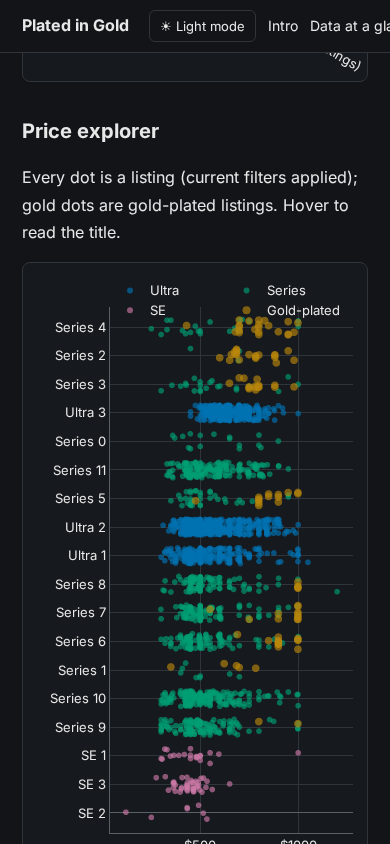
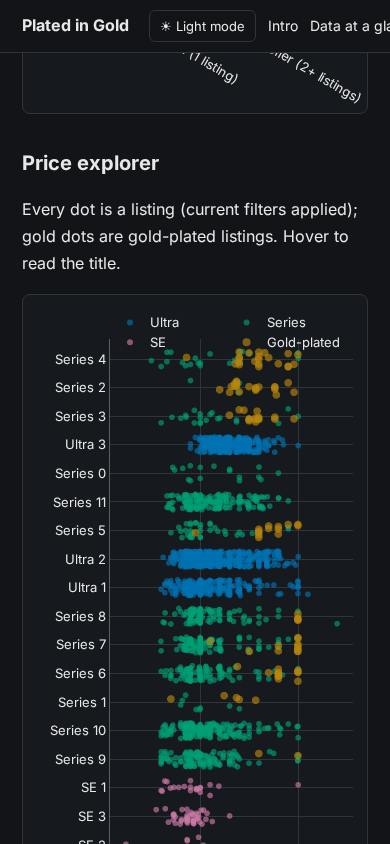
Move UK effect (price gap + country×model heatmap) into Data at a glance; fix heatmap colour text, UK deviation $126, nav scroll offset

diff --git a/app/app.js b/app/app.js
@@ -45,8 +45,9 @@ H('tSyn', `Features interact: in a hypothetical gold-plated Series 2, <em>gold =
 H('tPros', `<li><b>Reflects listing volume</b> — common models shape the model more; ${pc(C.ultra_share)} of listings are Ultra, while Series 2 has ${C.model_n['Series 2']} listings.</li><li><b>Splits credit among correlated features</b> — e.g. gold and older Series models.</li><li><b>Handles high-cardinality features</b> — ${C.n_sellers.toLocaleString()} seller IDs; seller ID ranks ${imp.findIndex(d => d.feature === 'seller_id') + 1} of ${imp.length}.</li>`);
 H('tFit', `${D.metrics.n_train.toLocaleString()} train / ${D.metrics.n_test} test listings (80/20 split, seed 43, after dropping rows with missing values). CatBoost regressor with default hyperparameters on condition, case size, worldwide shipping, country, model, Hermès, cellular, gold, premium band, ceramic and seller ID; the ranking chart's variant also includes the power-seller feature (R² ${D.metrics_ps.r2.toFixed(2)}, MAE ${fmt(D.metrics_ps.mae)}).`);
 H('tDist', `Choose a feature to see the spread of its SHAP values across all ${S.entries.toLocaleString()} listings. For <b>country</b>, the cluster left of zero is the UK: UK listings average ${fmt(C.uk_country_shap_mean)}, other countries +${fmt(C.other_country_shap_mean)}.`);
-H('tHeat', `Each cell shows how far a country's average for a model sits from that model's average across countries (blue below, red above). <b>The UK sits below in ${C.uk_models_below} of the ${C.uk_models_total} models it lists</b>, by ${fmt(Math.abs(C.uk_dev_mean))} on average.`);
-H('ukNeg', `In the SHAP chart above (feature: country), UK listings sit left of zero: ${D.uk.neg_all} of ${D.uk.n} UK country SHAP values are negative (${D.uk.neg_test} of ${D.uk.n_test} in the test set) — the model lowers the prediction for being listed in the UK.`);
+H('tUK', `UK listings average ${fmt(D.uk.uk_mean)}, against ${fmt(D.uk.rest_mean)} elsewhere (Welch p = ${D.uk.p.toExponential(1)}). This isn't just the UK listing cheaper models.`);
+H('tHeat', `Each cell shows how far a country's average for a model sits from that model's average across countries (red below, blue above). <b>The UK sits below in ${C.uk_models_below} of the ${C.uk_models_total} models it lists</b>, by ${fmt(Math.abs(C.uk_dev_mean))} on average.`);
+H('ukNeg', `<b>The UK effect in the model.</b> In the SHAP chart above (feature: country), UK listings sit left of zero: ${D.uk.neg_all} of ${D.uk.n} UK country SHAP values are negative (${D.uk.neg_test} of ${D.uk.n_test} in the test set) — the model lowers the prediction for being listed in the UK.`);
 H('f1', `${label(C.model_rank_A[0])} has the largest mean |SHAP| (${fmt(imp[0].value)}). The Ultra 3 averages ${fmt(C.ultra3_mean)}, but ${list(C.old_above_ultra3)} average more, and they have the highest gold shares (${list(C.top3_gold.map(m => C.gold_share[m] + '%'))}).`);
 H('f2', `Within models that have gold versions, gold-plating goes with a ${D.gold.pct}% higher average list price, yet gold ranks only ${C.gold_rank} of ${C.n_features} by mean |SHAP| (${fmt(C.gold_mean_abs_shap)}) — a big effect in a small niche (${D.gold.n} listings).`);
 H('f3', `Country ranks #${imp.findIndex(d => d.feature === 'country') + 1}. UK listings average ${fmt(D.uk.uk_mean)} vs ${fmt(D.uk.rest_mean)} elsewhere (Welch p = ${D.uk.p.toExponential(1)}), and the UK is below the cross-country average in ${C.uk_models_below} of ${C.uk_models_total} models.`);

diff --git a/app/index.html b/app/index.html
@@ -7,7 +7,7 @@
 <link rel="stylesheet" href="style.css">
 </head><body>
 <nav id="toc"><span class="brand">Plated in Gold</span><button id="themeToggle" class="theme" type="button" aria-pressed="false">☾ Dark mode</button>
-<a href="#intro">Intro</a><a href="#glance">Data at a glance</a><a href="#pitfall">The gold pitfall</a><a href="#model">Modeling</a><a href="#shap">SHAP</a><a href="#findings">Key findings</a><a href="#limits">Limitations</a><a href="#future">Future work</a></nav>
+<a href="#intro">Intro</a><a href="#glance">Data at a glance</a><a href="#uk">UK effect</a><a href="#pitfall">The gold pitfall</a><a href="#model">Modeling</a><a href="#shap">SHAP</a><a href="#findings">Key findings</a><a href="#limits">Limitations</a><a href="#future">Future work</a></nav>
 <header class="hero" id="intro"><div class="wrap">
 <p class="eyebrow">A data story · Apple Watch resale listings</p>
 <h1>Plated in Gold</h1>
@@ -44,6 +44,10 @@
 <div class="grid2"><div id="countryDonut" class="chart donut"></div><div id="modelDonut" class="chart donut"></div></div>
 <p id="tUKavg"></p>
 <div id="countryMeans" class="chart"></div>
+<h4 id="uk">The UK effect</h4>
+<p id="tUK"></p>
+<p id="tHeat"></p>
+<div id="heatmap" class="chart tall"></div>
 <p id="listingTxt"></p>
 <div id="listingChart" class="chart"></div>
 <h4>Price explorer</h4><p>Every dot is a listing (current filters applied); gold dots are gold-plated listings. Hover to read the title.</p>
@@ -76,8 +80,6 @@
 <p id="tDist"></p>
 <label class="inline">Feature <select id="dFeat"></select></label>
 <div id="shapDist" class="chart"></div>
-<p id="tHeat"></p>
-<div id="heatmap" class="chart tall"></div>
 <p id="ukNeg"></p></section>
 <section class="wrap" id="findings"><h3>Key findings</h3><div class="findings">
 <div><span>1</span><h5>Model is the top feature — but simple comparisons mislead.</h5><p id="f1"></p></div>

diff --git a/app/style.css b/app/style.css
@@ -45,3 +45,7 @@ button:focus-visible,select:focus-visible,input:focus-visible{outline:3px solid 
 code{font-size:.9em;background:var(--soft);padding:1px 4px;border-radius:4px}
 footer{margin-top:60px;padding:24px 0;background:var(--soft);border-top:1px solid var(--line);color:var(--mut);font-size:14px}
 @media(max-width:760px){body{font-size:16px}.chart.explorer-chart{height:620px}nav#toc{gap:12px}.grid2,.explorer{grid-template-columns:1fr}.chart.tall{height:440px}.filters{position:static;margin-top:20px}.callout{flex-direction:column;align-items:flex-start}h3{font-size:24px}}
+
+/* keep nav targets clear of the sticky header and filter bar */
+html { scroll-padding-top: 140px; }
+@media (max-width: 700px) { html { scroll-padding-top: 64px; } }

diff --git a/scripts/make_notebook.py b/scripts/make_notebook.py
@@ -28,6 +28,9 @@ viz.fig_donut(df['country'].value_counts(), 'Listings by country', IMAGES_DIR/'0
 viz.fig_donut(df['family'].fillna('Unknown').value_counts(), 'Listings by family', IMAGES_DIR/'02_family_donut.png'); plt.show()""")
 code("""print(f"overall mean ${C['mean_all']} | excluding UK ${C['mean_ex_uk']} | UK lowest (30+ listings): {C['uk_lowest']}")
 viz.fig_country_means(df, IMAGES_DIR/'03_country_means.png'); plt.show()""")
+md("### The UK effect\nUK listings average less than listings elsewhere, and the gap holds within models: the heatmap shows each country's deviation from the model's cross-country average.")
+code("""print(st['uk']); print('UK models below cross-country mean:', C['uk_models_below'], 'of', C['uk_models_total'])
+viz.fig_deviation_heatmap(df, IMAGES_DIR/'12_price_deviation_heatmap.png'); plt.show()""")
 code("""print(st['listing'])
 viz.fig_listing_type(df, IMAGES_DIR/'04_listing_type.png'); plt.show()""")
 md("## 3. The gold-plating pitfall")
@@ -49,8 +52,7 @@ viz.fig_waterfall(st['sv'][ti], [f'{l} = {"missing" if pd.isna(X.iloc[ti][f]) el
 code("""w = st['s2_row'].iloc[0]
 print('Series 2 gold: gold', C['s2_gold_shap'], '| model', C['s2_model_shap'])
 viz.fig_waterfall(st['s2_shap'], [f'{l} = {"missing" if pd.isna(w[f]) else w[f]}' for l, f in zip(lab, FEATURES)], st['base'], 'SHAP breakdown: hypothetical gold-plated Series 2', IMAGES_DIR/'10_shap_series2_gold.png'); plt.show()""")
-code("""print(st['uk']); print('UK models below cross-country mean:', C['uk_models_below'], 'of', C['uk_models_total'])
-viz.fig_deviation_heatmap(df, IMAGES_DIR/'12_price_deviation_heatmap.png'); plt.show()""")
+code("""print('UK negative country SHAP:', st['uk']['neg_all'], 'of', st['uk']['n'], '| test', st['uk']['neg_test'], 'of', st['uk']['n_test'])""")
 md("## 6. Key findings\n1. **Model is the top feature, but raw averages mislead:** Series 2, 4 and 3 average more than the Ultra 3, and they have the highest gold-plating shares.\n2. **Big niche effect, small global effect:** gold-plating carries a ~55% within-model premium but ranks 7th of 12 by mean |SHAP|.\n3. **Country is a large source of variation:** UK listings sit below the cross-country mean in 17 of the 17 models listed there, and 212 of 212 UK listings get a negative country SHAP value.")
 nb['cells']=C; nb.metadata['kernelspec']={'name':'python3','display_name':'Python 3','language':'python'}
 nbf.write(nb, os.path.join(os.path.dirname(os.path.dirname(os.path.abspath(__file__))), 'notebooks', '01_plated_in_gold_analysis.ipynb'))

diff --git a/docs/claims_audit.md b/docs/claims_audit.md
@@ -2,7 +2,7 @@
 
 Every sentence with a number in the app is generated in `app.js` from `window.STORY_DATA` (`app/data.js`). `app/build_data.py` builds that file by calling `src.story.compute_story()`, which uses `src.data.load_clean()` (cleaning in `src/cleaning.py`, features in `src/features.py`) and `src.modeling` (CatBoost settings from the original CatBoost notebook). The README and `notebooks/01_plated_in_gold_analysis.ipynb` quote the same values. Keys below refer to the `compute_story()` output: `summary.*`, `claims.*`, `gold.*`, `listing.*`, `uk.*`, `metrics*`, `importance*`, `s2gold`.
 
-**Section order (README, notebook and app):** Intro & question → Data at a glance → Gold-plating pitfall → Modeling (CatBoost) → SHAP (global ranking, two listings explained, results by feature / UK effect) → Key findings → Limitations → Future work.
+**Section order (README, notebook and app):** Intro & question → Data at a glance (incl. the UK effect: UK price gap + country × model deviation heatmap, placed right after the average-price-by-country chart and before listing type) → Gold-plating pitfall → Modeling (CatBoost) → SHAP (global ranking, two listings explained, results by feature, incl. the UK country-SHAP sentence) → Key findings → Limitations → Future work.
 
 Status: ✅ supported as written · ✏ rewritten to match data/model · ❌ removed.
 
@@ -29,6 +29,7 @@ Status: ✅ supported as written · ✏ rewritten to match data/model · ❌ 
 | 19 | Glance | USA share; UK next | 77.4%; 9.1% | `claims.us_share`, `claims.uk_share` | ✏ (was "vast majority") |
 | 20 | Glance | Ultra share (was "most watches are Ultra") | 50.0% (Series 46.8%) | `claims.ultra_share`, `claims.series_share` | ✏ |
 | 21 | Glance | UK lowest average (30+ listings); excluding UK raises mean | $578 → $593 | `claims.uk_lowest`, `claims.mean_all`, `claims.mean_ex_uk` | ✅ |
+| 37 | Glance / UK effect | README "UK cheaper across all models" → UK below in 17 of 17 models it lists, avg −$126 (−$126.30; was −$127 before the Italia → Italy mapping) | 17/17 | `claims.uk_models_below`, `uk_models_total`, `uk_dev_mean` | ✏ stated as count |
 | 22 | Glance | individuals 5.8% cheaper than power sellers (2+); p | $561 vs $596; p=5.1e-8 | `listing.*` (power_seller ≥2, Welch t-test) | ✏ (README "10%") |
 | 23 | Glance | README "about 10% cheaper" | — | contradicted by `listing.pct_cheaper` | ❌ removed |
 | 24 | Glance | power_seller rank 11/12, ±$3 | 2.83 | `importance` | ✅ new |
@@ -44,7 +45,6 @@ Status: ✅ supported as written · ✏ rewritten to match data/model · ❌ 
 | 34 | Modeling / SHAP | train/test 1,585/397; R² 0.53; MAE $69 | 0.5297 / $69.40 | `metrics` (11-feature) | ✅ |
 | 35 | Modeling / SHAP | power_seller variant R² 0.52, MAE $70 | 0.5248 / $70.02 | `metrics_ps` | ✅ |
 | 36 | Modeling / SHAP | country cluster left of zero is UK; UK mean country SHAP vs others | −$106 vs +$9; UK = 98% of the 212 lowest | `claims.uk_country_shap_mean`, `other_country_shap_mean`, `uk_share_of_lowest_country_shap` | ✅ |
-| 37 | Modeling / SHAP | README "UK cheaper across all models" → UK below in 17 of 17 models it lists, avg −$127 | 17/17 | `claims.uk_models_below`, `uk_models_total`, `uk_dev_mean` | ✏ stated as count |
 | 38 | Modeling / SHAP | UK country SHAP negative: 212/212 (33/33 test) | — | `uk.neg_all`, `uk.neg_test` | ✏ stated as count (was "all") |
 | 39 | Findings 1 | model top feature; Series 2/4/3 above Ultra 3 with highest gold shares 88/51/42% | — | `importance`, `claims.*` | ✏ ("strongest predictor" → "top feature") |
 | 40 | Findings 2 | gold +54.8% but rank 7/12, mean \|SHAP\| $9 | — | `gold.pct`, `claims.gold_rank`, `gold_mean_abs_shap` | ✏ |
@@ -55,3 +55,4 @@ Status: ✅ supported as written · ✏ rewritten to match data/model · ❌ 
 | 45 | Charts | all charts/heatmap/filters computed live from `listings` | — | `listings[]` | ✅ |
 | 46 | README | Same claims as rows 1–45, quoted with the same values; figures in `images/` come from `scripts/make_figures.py` | — | `src.story.compute_story`, `src.visualization.fig_*` | ✅ |
 | 47 | App | Section order changed to match the README (data → pitfall → modeling → SHAP); no claims added | — | `app/index.html` | ✏ |
+| 48 | README / notebook / app | UK effect (price gap, heatmap) moved into Data at a glance after the country chart; the UK SHAP sentence stays in SHAP; no claims added | — | `README.md`, `scripts/make_notebook.py`, `app/index.html` | ✏ |

diff --git a/README.md b/README.md
@@ -9,7 +9,7 @@ We analyze **2,328** third-party Apple Watch listings, web-scraped from online m
 > **The largest caveat:** these are *list prices*, not completed sales. They describe what sellers ask, not what buyers pay.
 
 ## Contents
-1. [Data at a glance](#data-at-a-glance)
+1. [Data at a glance](#data-at-a-glance) (incl. [The UK effect](#the-uk-effect))
 2. [The gold-plating pitfall](#the-gold-plating-pitfall)
 3. [Modeling: CatBoost](#modeling-catboost)
 4. [Explaining the model with SHAP](#explaining-the-model-with-shap)
@@ -39,6 +39,12 @@ The raw file has 3,607 listings across several brands, and Apple accounts for 65
 The UK has the lowest average price of any country with 30+ listings. Leaving it out raises the overall average from $578 to $593.
 
 <p align="center"><img src="images/03_country_means.png" width="800"></p>
+
+### The UK effect
+
+UK listings average $428, against $593 elsewhere (Welch p = 1.8e-52). This isn't just the UK listing cheaper models. The UK sits below each model's cross-country average in 17 of the 17 models listed there, by $126 on average.
+
+<p align="center"><img src="images/12_price_deviation_heatmap.png" width="900"></p>
 
 **Listing type.** Individuals (sellers with one listing, n = 1,257) average $561. That is 5.8% less than power sellers with 2+ listings ($596, n = 1,071). The gap is significant (Welch t-test p = 5.1e-8), but it is small inside the model: power_seller ranks 11th of 12 features.
 
@@ -84,17 +90,13 @@ Features interact. In a hypothetical gold-plated Series 2, *gold = 1* adds $47.5
 
 <p align="center"><img src="images/10_shap_series2_gold.png" width="700"></p>
 
-**The UK effect.** UK listings average $428, against $593 elsewhere (Welch p = 1.8e-52). Their country SHAP values average −$106, against +$9 for other countries, and **212 of 212 UK listings get a negative country SHAP value** (33 of 33 in the test set). The price gap itself is visible in the country chart in [Data at a glance](#data-at-a-glance).
-
-This isn't just the UK listing cheaper models. The UK sits below each model's cross-country average in 17 of the 17 models listed there, by $127 on average.
-
-<p align="center"><img src="images/12_price_deviation_heatmap.png" width="900"></p>
+**The UK effect in the model.** UK listings' country SHAP values average −$106, against +$9 for other countries, and **212 of 212 UK listings get a negative country SHAP value** (33 of 33 in the test set). The price gap itself is shown in [The UK effect](#the-uk-effect).
 
 ## Key findings
 
 1. **Model is the top feature, but simple comparisons mislead.** Series 2, 4 and 3 average more than the Ultra 3, and they have the highest gold-plating shares.
 2. **A feature can matter a lot in a niche and little overall.** Gold-plating goes with a 54.8% within-model premium, yet it ranks only 7th of 12 by mean |SHAP| ($9.37), because it affects just 123 listings.
-3. **Country is a large source of variation.** It ranks 2nd. The UK is below the cross-country average in 17 of 17 models, and the model lowers the prediction for every UK listing.
+3. **Country is a large source of variation.** It ranks 2nd. The UK is below the cross-country average in 17 of 17 models, and 212 of 212 UK listings get a negative country SHAP value.
 
 ## Limitations
 
